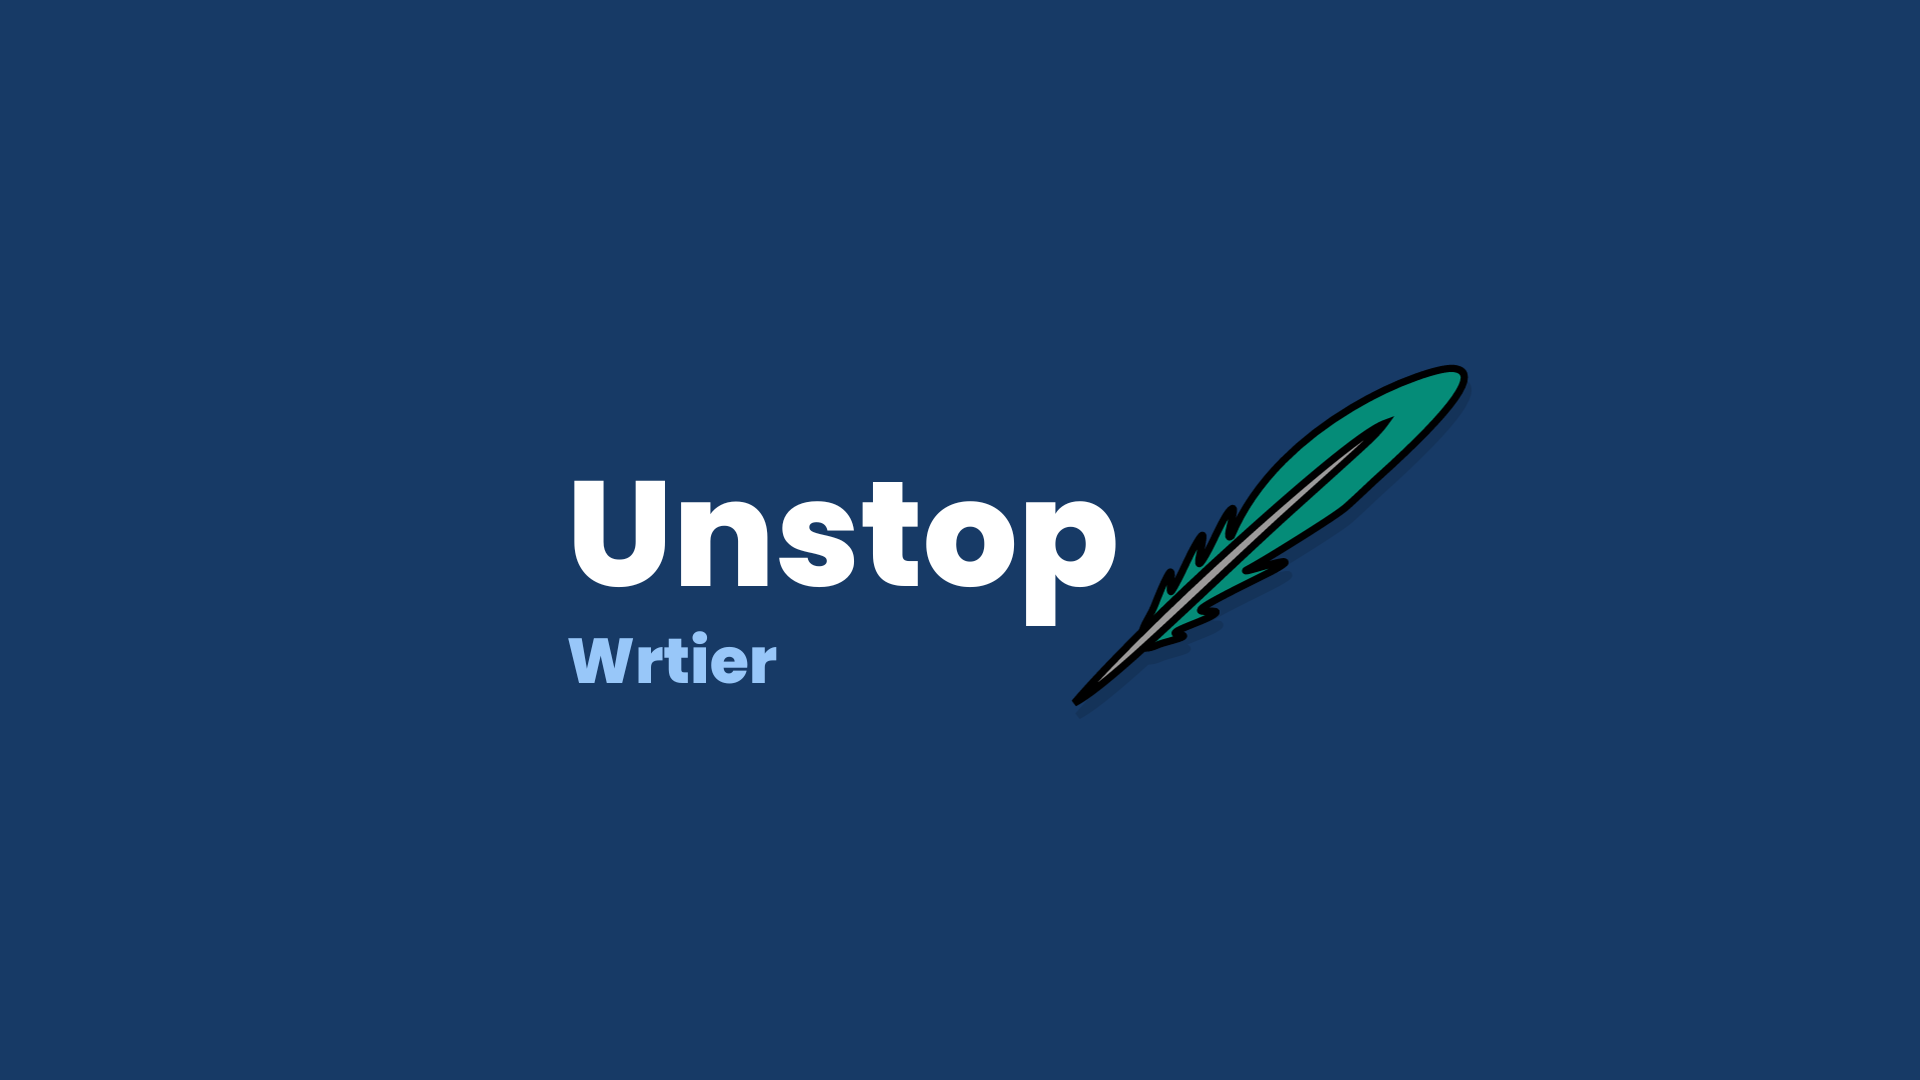
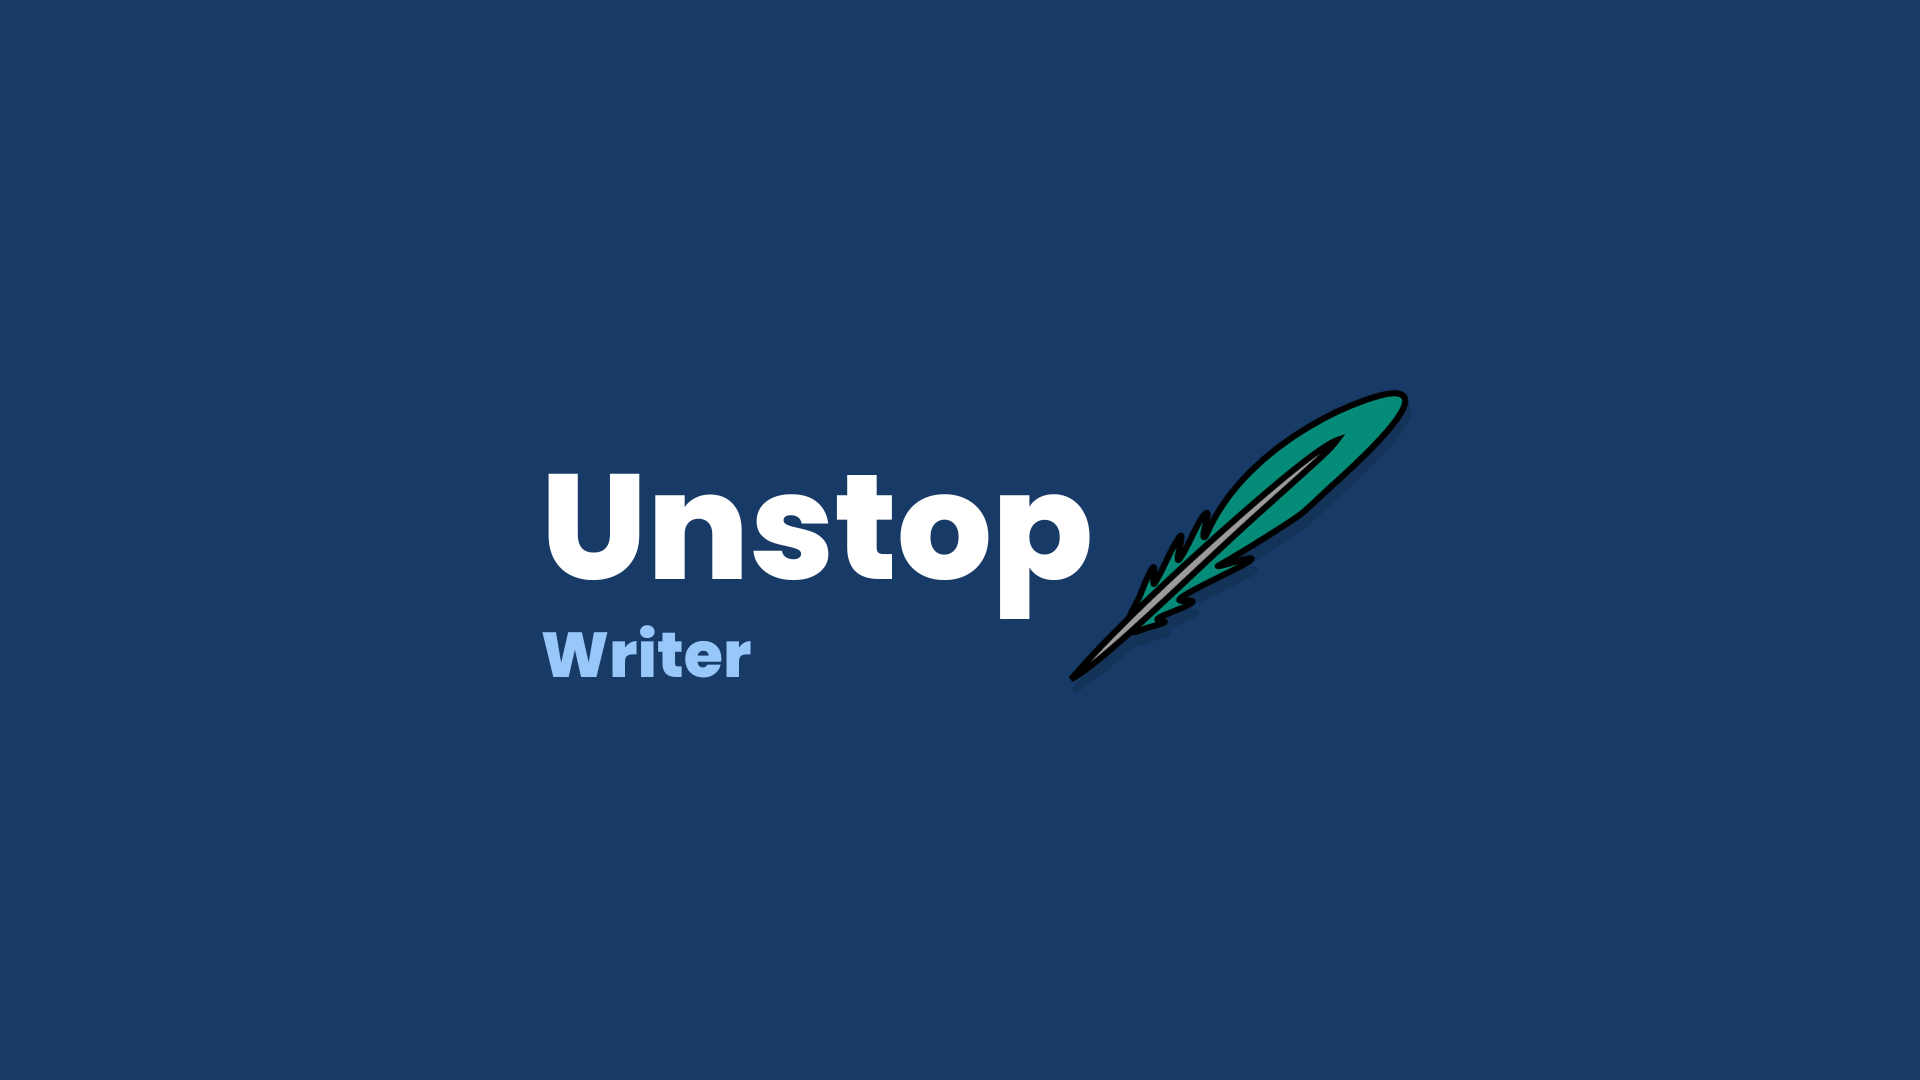
typo fix

Changed region(s): [[0.2812, 0.3361, 0.7812, 0.6417], [0.2812, 0.5806, 0.4062, 0.6417]]

diff --git a/vtr/NOTES.md b/vtr/NOTES.md
@@ -19,7 +19,6 @@ Footer          Done            Done
 
 <!-- NOV 11 - UPDATE -->
 #### ASSETS CURATION
-logo icon
 portfolio section modal image and content - custom images
 testimonial section images of client and testimonials
 blog section dummy preview images - custom images
